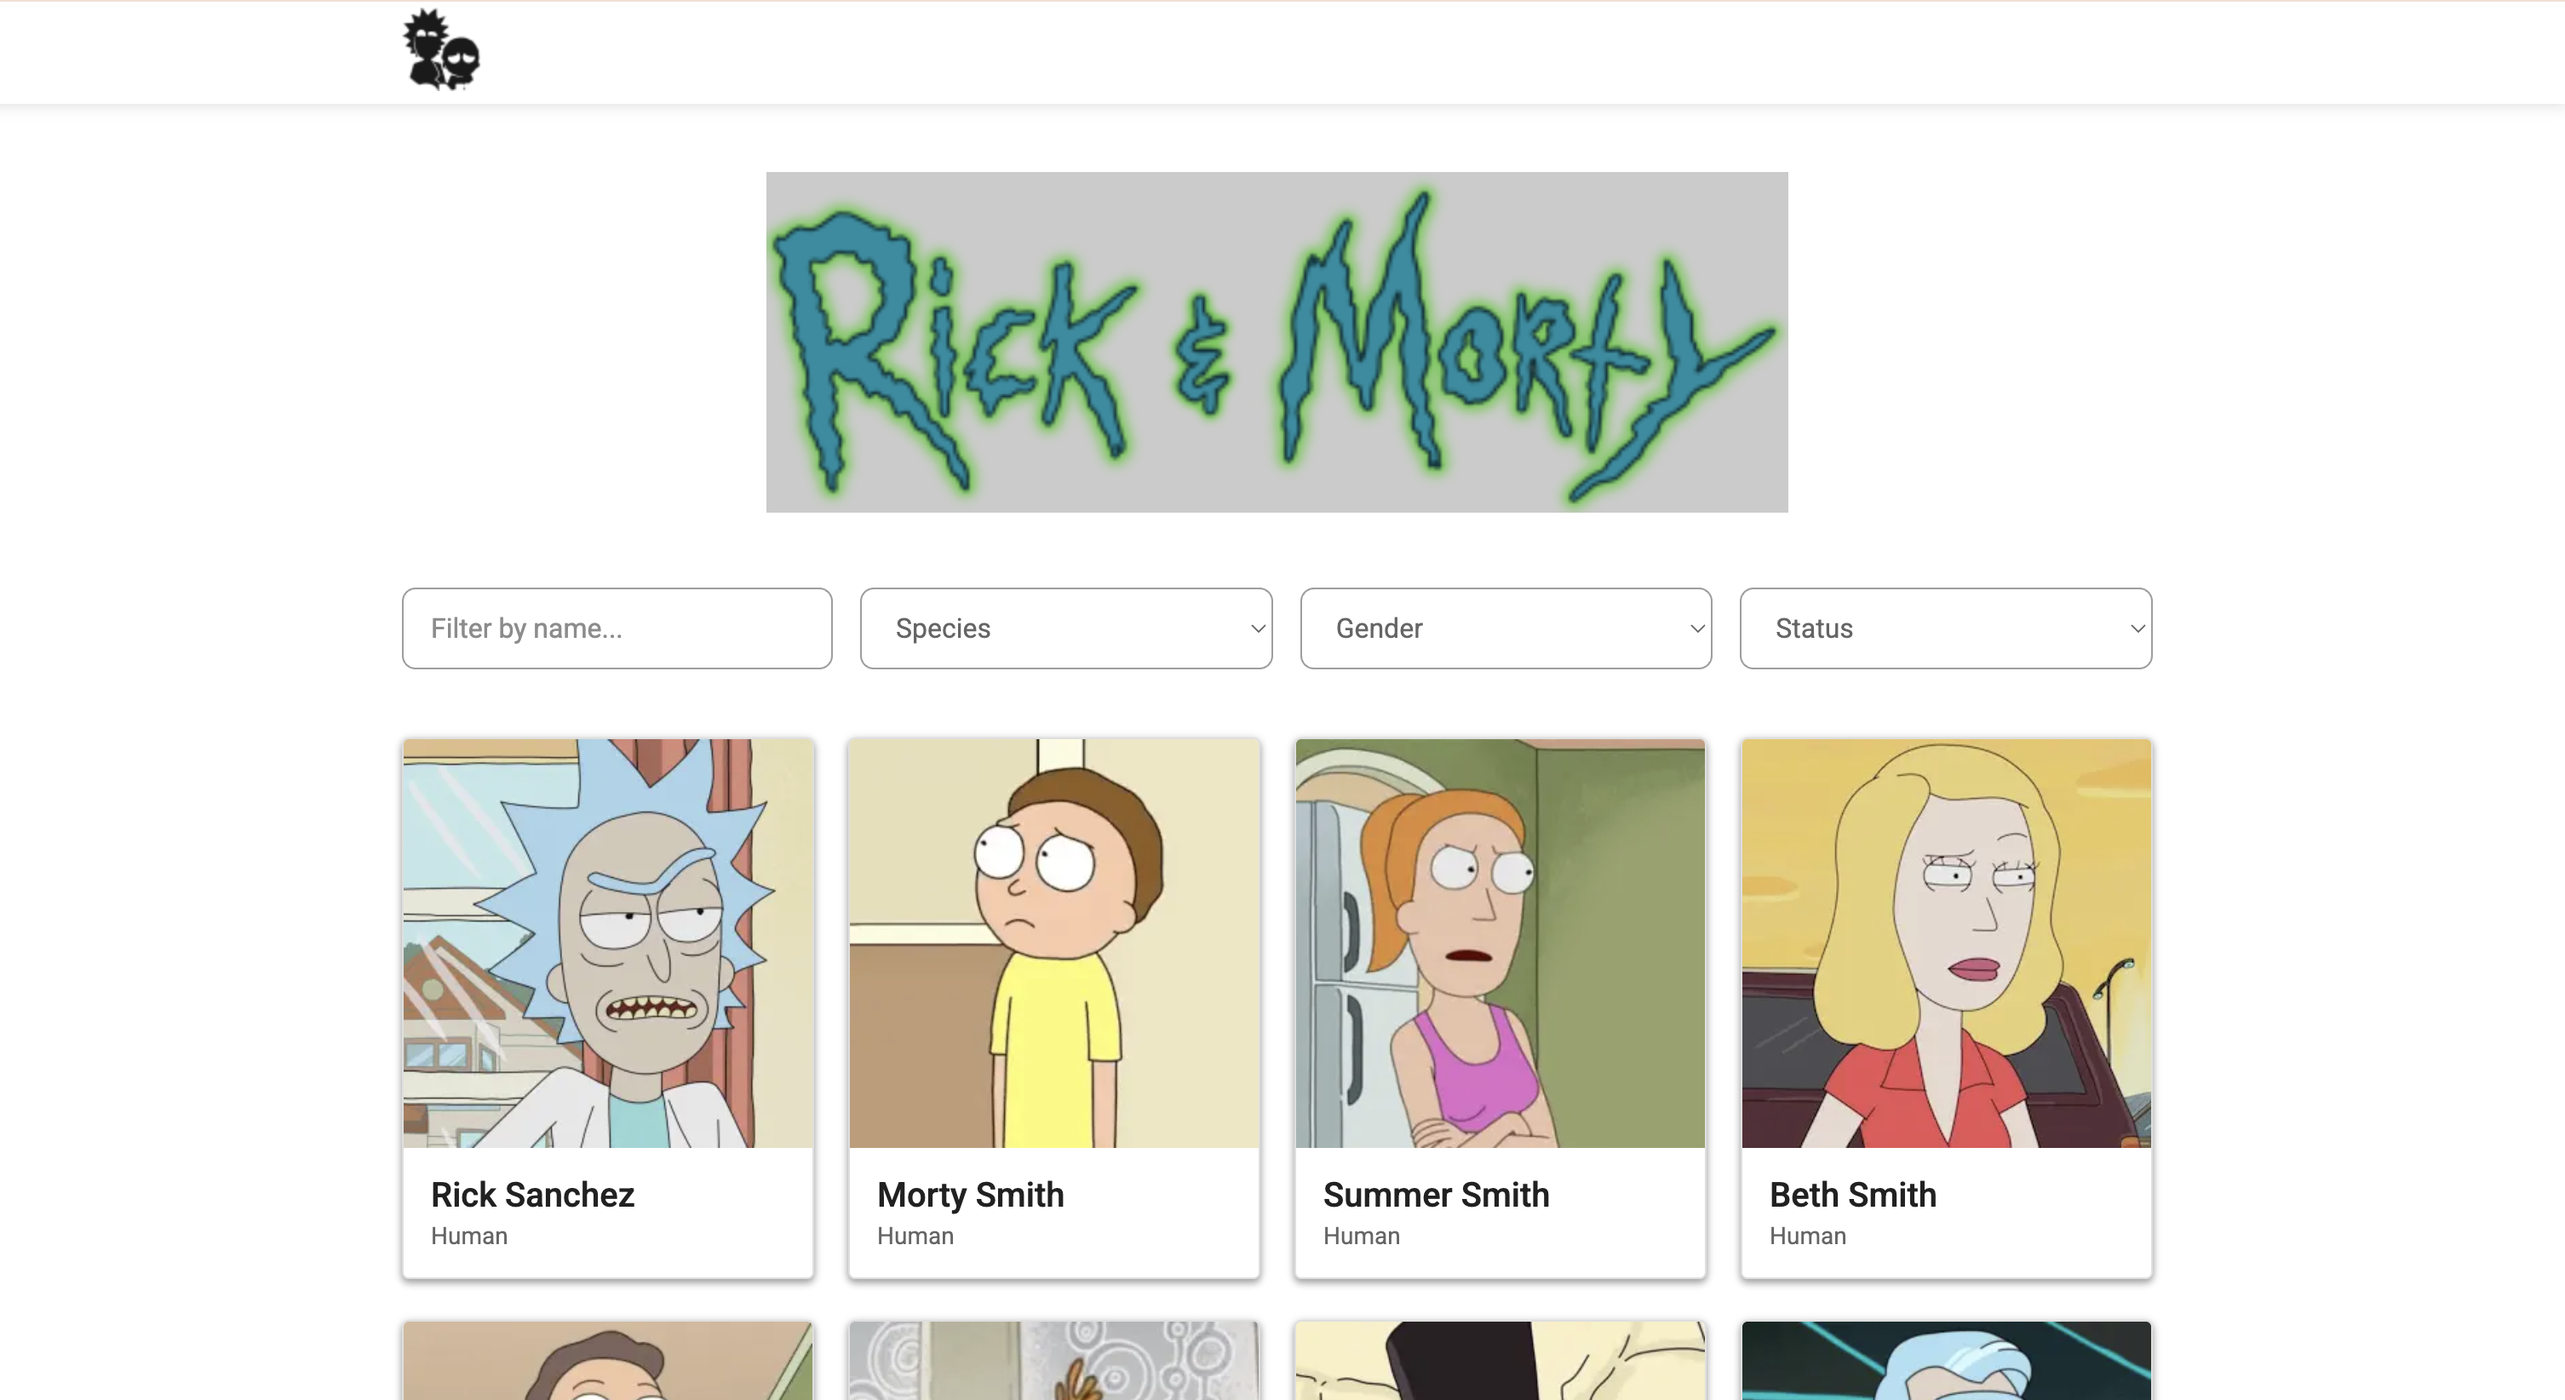
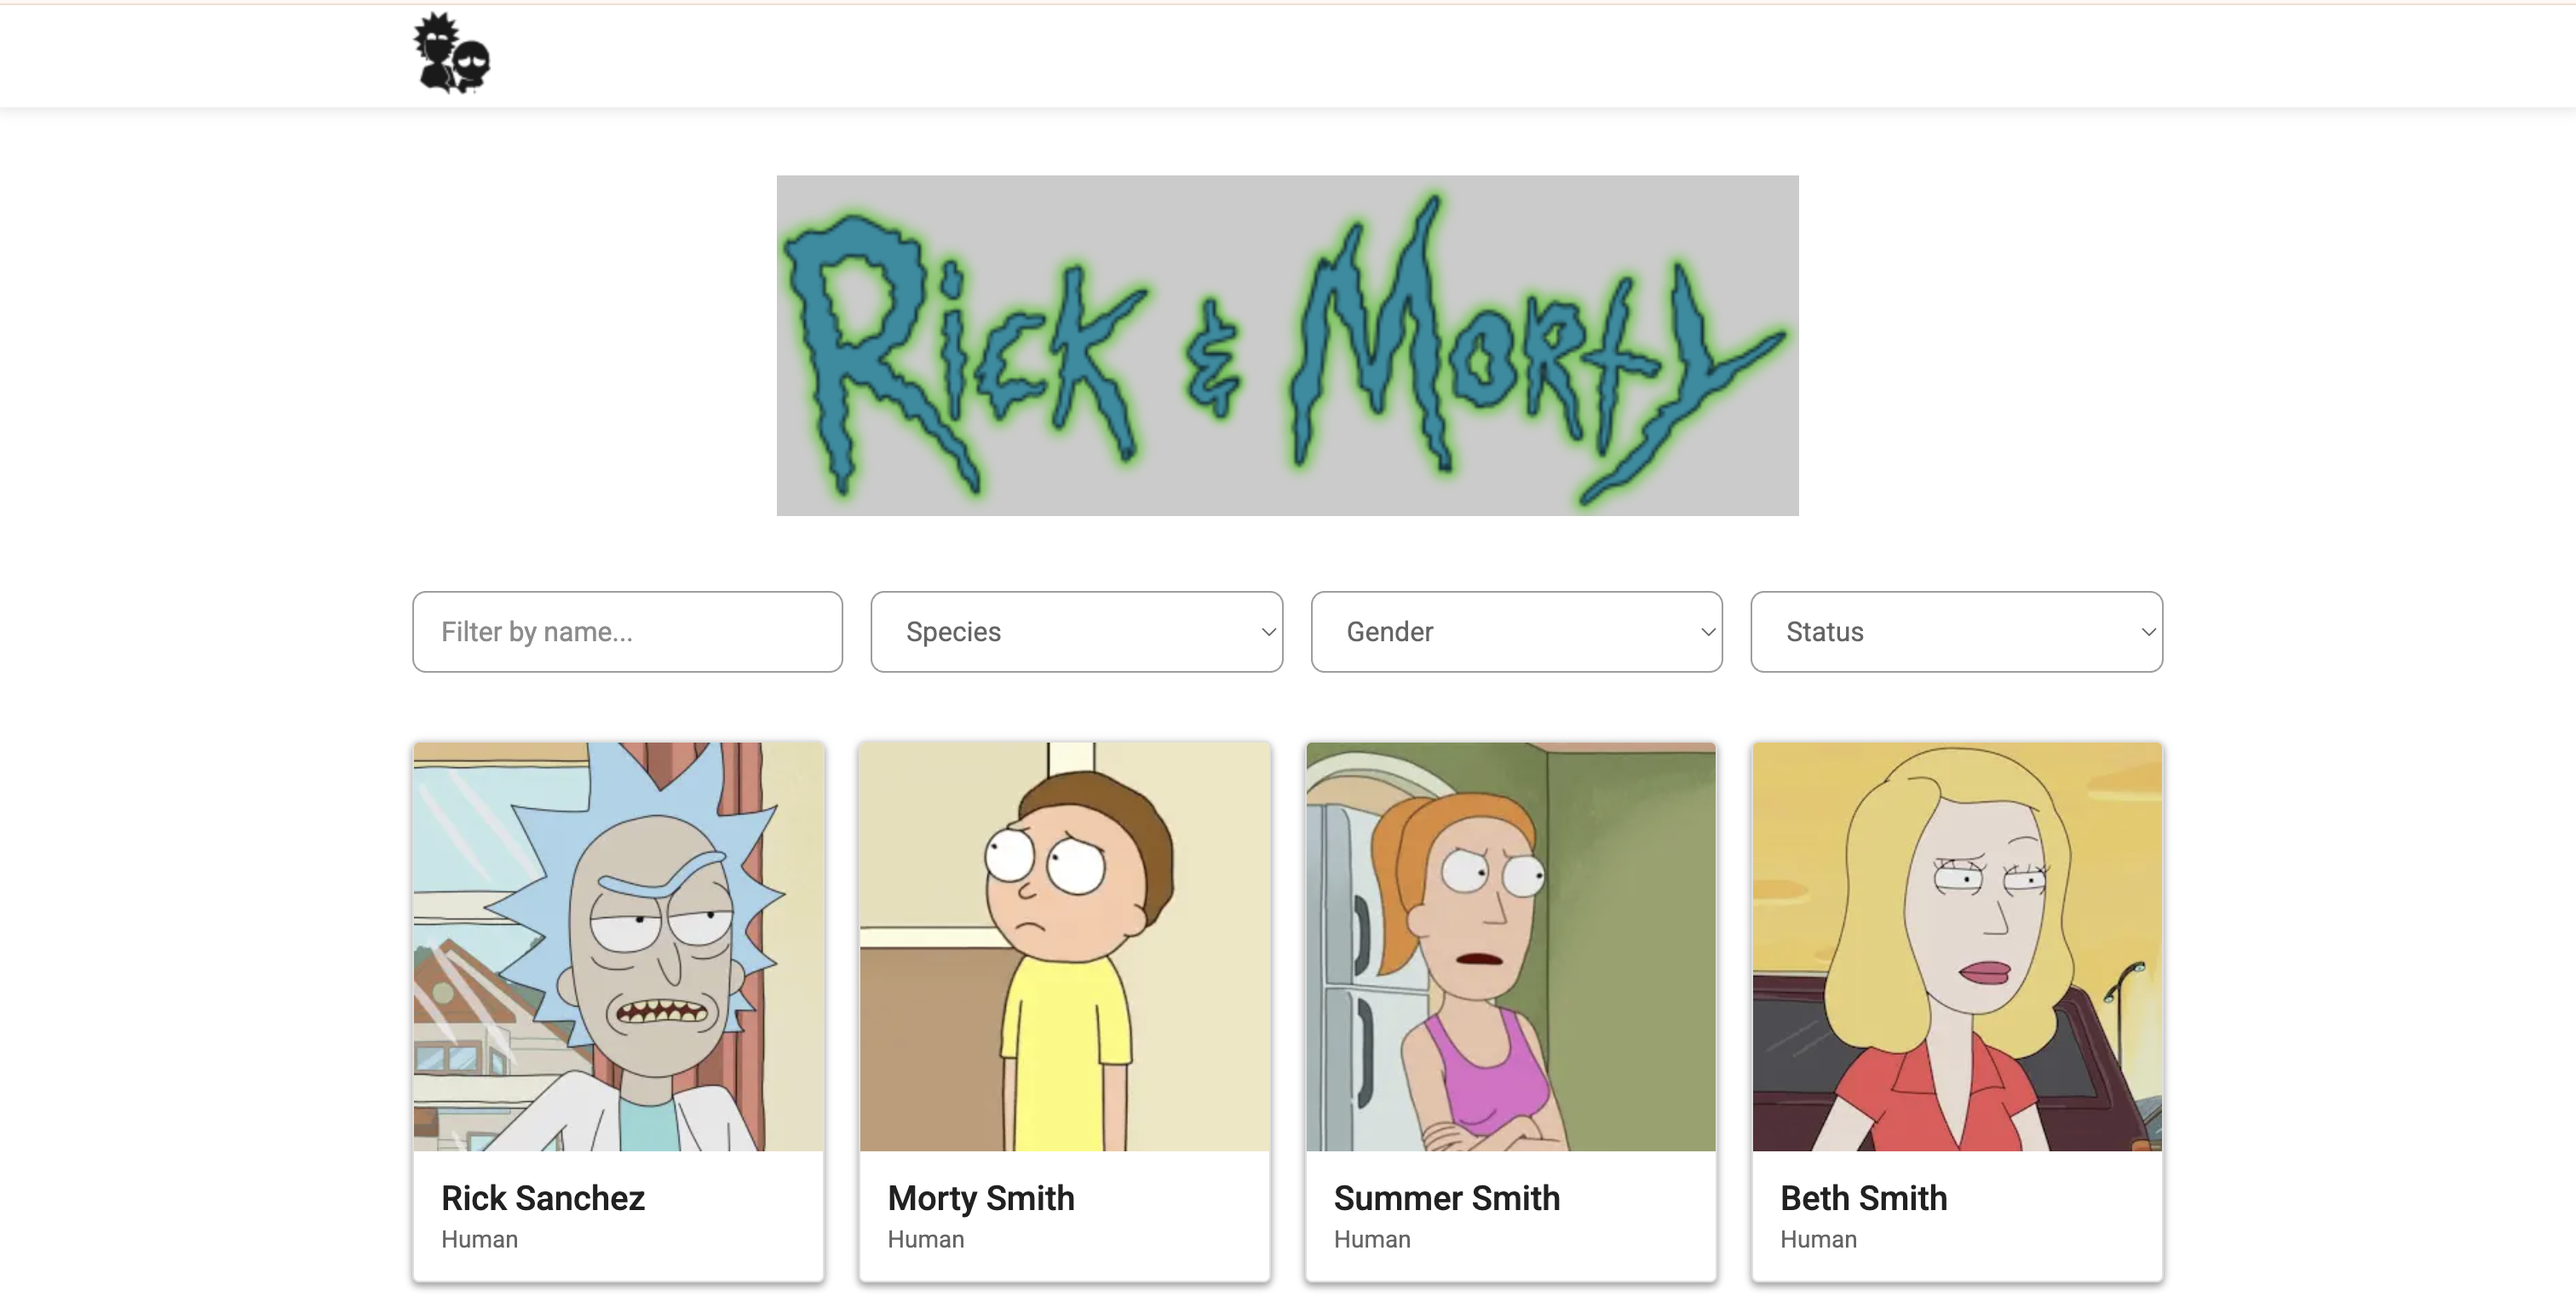
docs: update README with resized and side-by-side screenshots

Changed region(s): [[0.156, 0.4375, 0.8426, 1.0], [0.2809, 0.125, 0.7178, 0.4062], [0.156, 0.0, 0.1873, 0.0938]]

diff --git a/README.md b/README.md
@@ -114,7 +114,7 @@ https://rickandmortyapi.com/api/character
 
 ![Character List](./screens/desktopList.png)
 
-![Character Detail](./screens/desktopListLeadMore.png)
+![Character Detail](./screens/desktopListFooter.png)
 
 ### Character Detail (Desktop)
 
